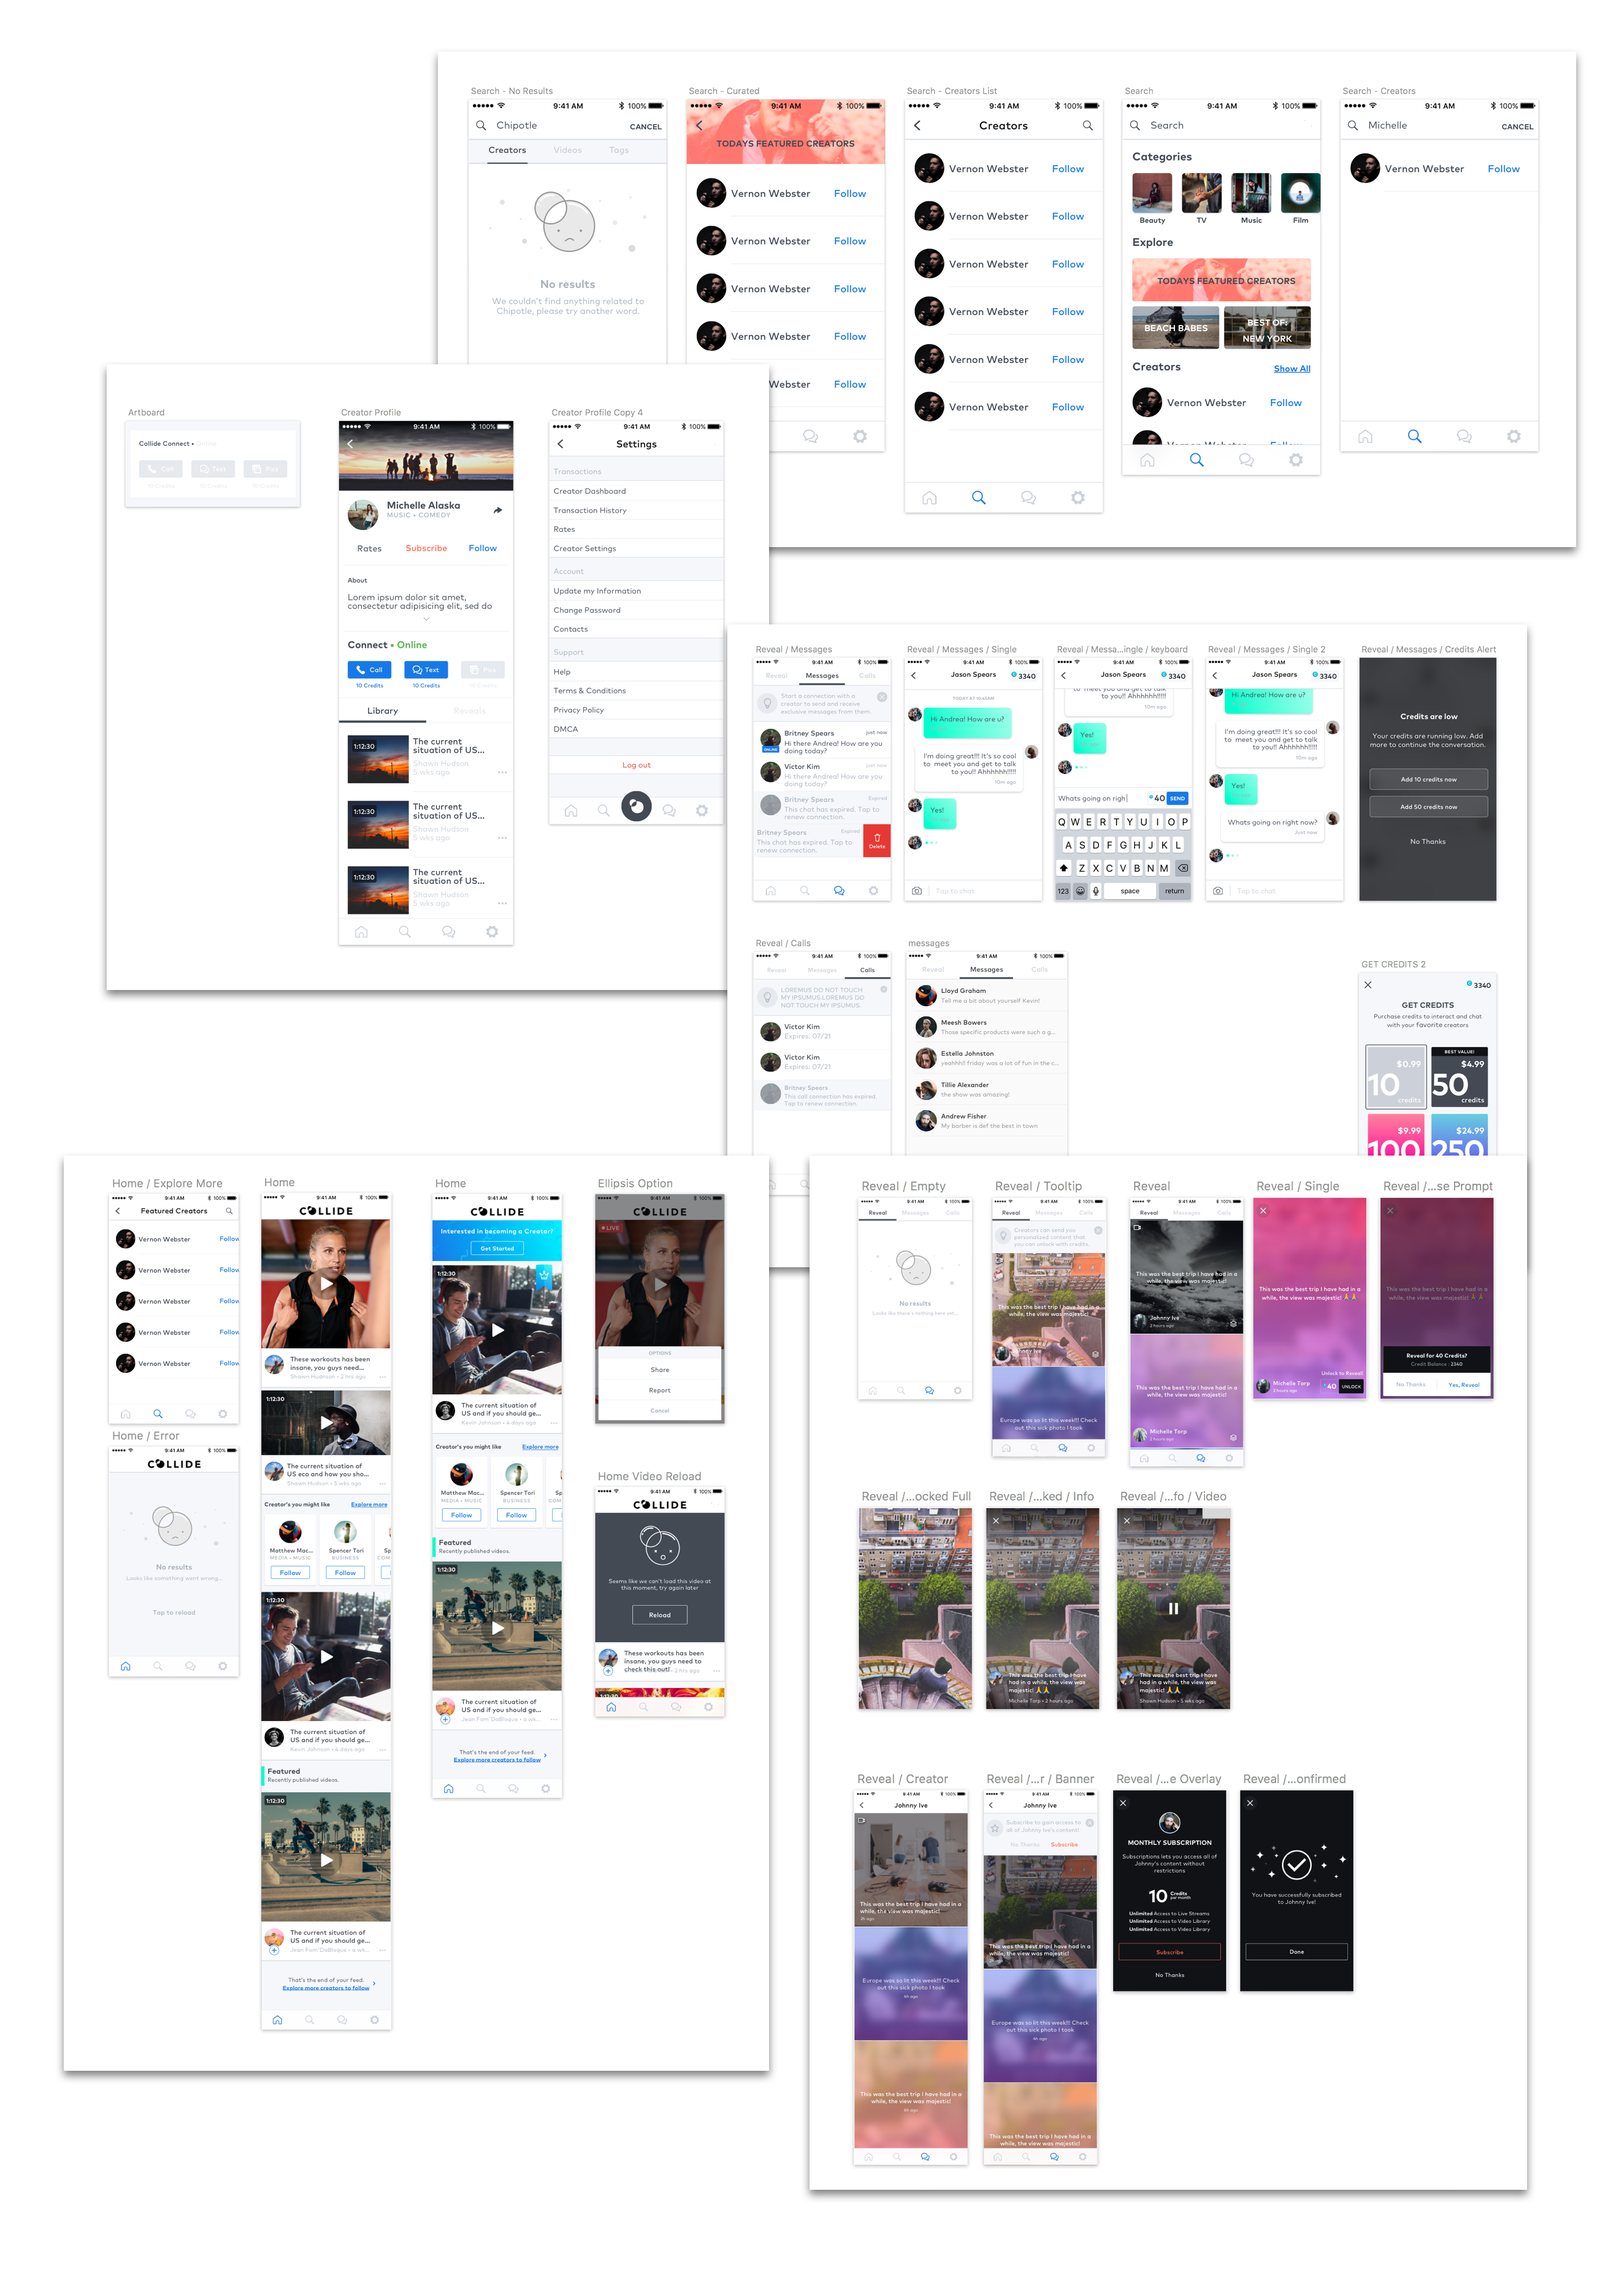
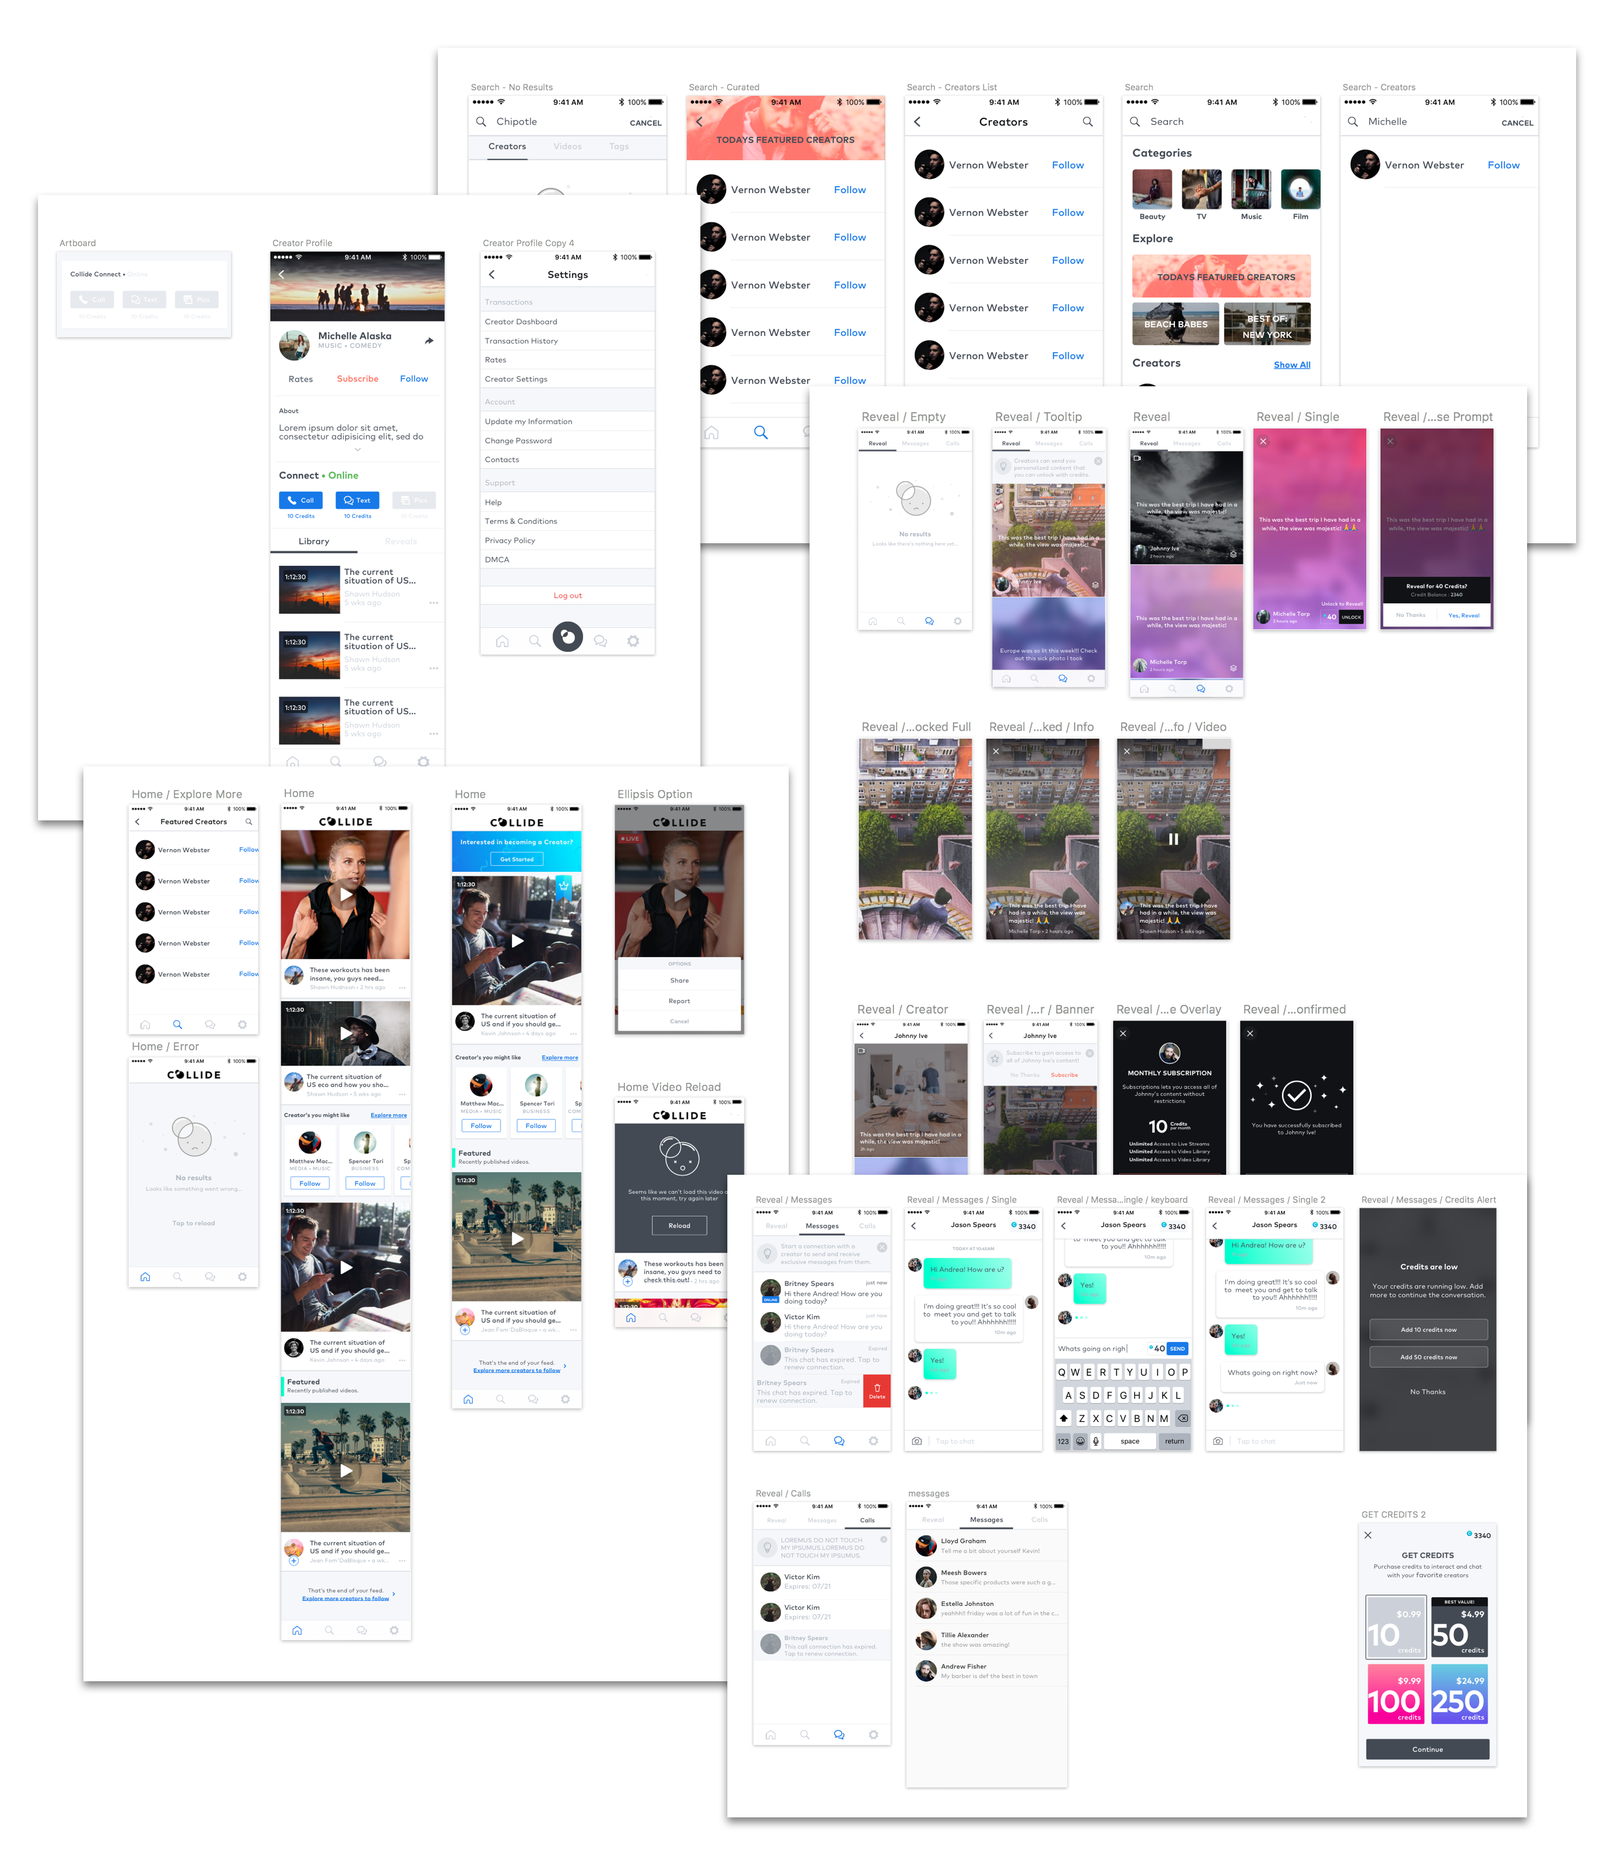
removed zoom temporarily, added new images for project

diff --git a/collide.html b/collide.html
@@ -4,7 +4,7 @@
   <title>Mario Siauw</title>
 
   <head>
-    <link href="css/zoom-vanilla.css" rel="stylesheet">
+    <link href="./css/zoom-vanilla.css" type="text/css" rel="stylesheet">
     <link rel="shortcut icon" href=>
     <meta name="viewport" content="width=device-width, initial-scale=1">
     <link href="./css/skeleton.css" type="text/css" rel="stylesheet">
@@ -55,9 +55,9 @@
         <p class="body">Since joining the team, we have transitioned towards a simpler product model where Creators can upload photos, pre-recorded videos, and call and text with fans.</p>
       </div>
       <div class="image-container-multiple">
-        <img src="./images/collide/collide1-1.png" data-action="zoom">
-        <img src="./images/collide/collide1-2.png" data-action="zoom">
-        <img src="./images/collide/collide1-3.png" data-action="zoom">
+        <img src="./images/collide/collide1-1.png">
+        <img src="./images/collide/collide1-2.png">
+        <img src="./images/collide/collide1-3.png">
       </div>
       <div>
         <h2 class="tooltip">Identifying Roadblocks Early</h2>
@@ -66,7 +66,7 @@
         <p class="body">Creators and users were recognized as two different entities. Meaning, Creator accounts could not use the functions
           of user accounts and vise-versa. This proved to cause major problems in our development process.</p>
         <figure>
-          <img src="./images/collide/1.0userflowfinal.png" data-action="zoom">
+          <img src="./images/collide/1.0userflowfinal.png">
           <figcaption>Initial userflow when Collide launched</figcaption>
         </figure>
         <p class="body">Other problems were also quite apparent at the early stages of the initial launch.
@@ -97,17 +97,33 @@
         <h2 class="tooltip">Early Explorations</h2>
         <p class="body">I began going through the App and figuring out user flows, setting objectives on what to achieve as a user, finding out the red paths and other unnecessary steps users are taking.</p>
         <figure>
-          <img src="./images/collide/whiteboard2.0.png" data-action="zoom">
+          <img src="./images/collide/whiteboard2.0.png">
         </figure>
         <p class="body">Once we have figured out the optimal process to take, I started creating some wireframes to idealize Collides new style. I delivered several styles that I believed were an improvement,
           both visually and experiences, until our team was ready to onboard with one.</p>
         <figure>
-          <img src="./images/collide/initialexploration.png" data-action="zoom">
+          <img src="./images/collide/initialexploration.png">
           <figcaption>Early Wireframes Ideas</figcaption>
         </figure>
         <p class="body">Based on the feedback that was given, I would try to iterate the designs on a weekly basis before we moved forward with the process.</p>
+        <p class="body"></p>
+      </div>
+
+      <div>
+        <h2 class="tooltip">Our Visual Outcome</h2>
         <p class="body">Once we have finalized the screens, I proceeded to work together with our developers in order to establish the product as closely to the vision as possible.
         We decided on taking advantage of Zeplin in order to properly manage file handoff's with devs.</p>
+        <figure>
+          <img src="./images/collide/finalscreens.png">
+        </figure>
+        <p class="body">One of my personal goals for this project was to produce designs that other designers could easily understand and make changes without having to go through
+          the ordeal of creating everything from scratch.</p>
+          <p class="body">I organized our Sketch assets in components through the principles of the Atomic Design system. We were making good use of Storyboards, and there were talks of wanting to rebuild our web app with React.
+          I felt that it was a perfect opportunity to start a holistic system between designers and developers.</p>
+        <figure>
+          <img src="./images/collide/components2.png">
+          <img src="./images/collide/components.png">
+        </figure>
       </div>
 
       <div>
@@ -115,7 +131,7 @@
         <p class="body">We introduced a Home Feed that showcases featured content so users would have ease of access to the content their Creators created. We also implemented caveats
           in the home page to encourage users to exlplore other Creators to increase behavior.</p>
         <figure class="image-container-multiple">
-          <img src="./images/collide/homescroll.gif" data-action="zoom">
+          <img src="./images/collide/homescroll.gif">
         </figure>
         <p class="body">The reason we believe the Home Feed is effective is because it drives engagement. I noticed users would previously only use the product when a specific Creator
         they were following were online. The product was not initially built to market content, it was built to market Creators. By providing affordances to explore other Creators and content, Collide is able to drive a bigger engagement with their users.</p>
@@ -126,7 +142,7 @@
           The marketing team would have to personally explain to them how to navigate through the Creator functions.</p>
           <p class="body">By implementing a static "create" button Creators can easily upload videos, images, make calls and texts anytime.
         <figure class="image-container-multiple">
-          <img src="./images/collide/creatorhub.gif" data-action="zoom">
+          <img src="./images/collide/creatorhub.gif">
         </figure>
       </div>
 
@@ -135,7 +151,7 @@
         <p class="body">Reveal is a completely new feature that's included in the redesign. It's primary function is for Creators to provide super-exclusive content to their fans.
         We wanted to enhance the community between Creators and their fans.</p>
         <figure class="image-container-multiple">
-          <img src="./images/collide/revealuser.gif" data-action="zoom">
+          <img src="./images/collide/revealuser.gif">
         </figure>
       </div>
 
@@ -144,7 +160,7 @@
         <p class="body">Within a month's time of the new redesign implementation, we were able to see some drastic improvements in engagement.
         There was a spike in registration of new users, users were spending more time in the app, and they were sending more messages with creators.  </p>
         <figure>
-          <img style="margin-left:-24px;" src="./images/collide/metrics.png" data-action="zoom">
+          <img style="margin-left:-24px;" src="./images/collide/metrics.png">
         </figure>
       </div>
       <div>

diff --git a/css/zoom-vanilla.css b/css/zoom-vanilla.css
@@ -23,7 +23,7 @@ img.zoom-img {
   filter: "alpha(opacity=0)";
   opacity: 0;
   -webkit-transition: opacity 300ms;
-  transition:      opacity 300ms;
+  transition:  opacity 300ms;
 }
 .zoom-overlay-open .zoom-overlay {
   filter: "alpha(opacity=100)";
